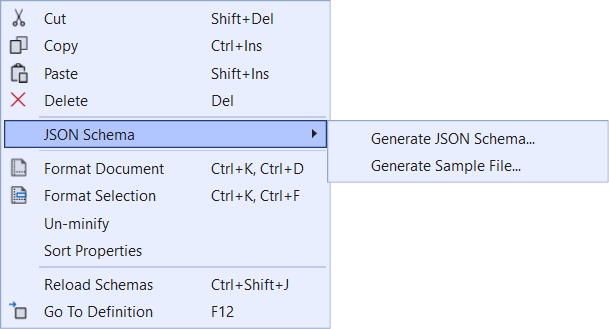
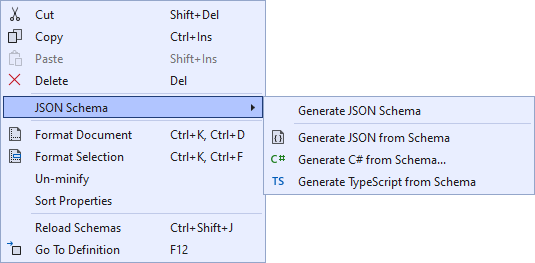
Added C# and TS code generation [release]

diff --git a/src/Commands/CsharpSettingsWindow.xaml b/src/Commands/CsharpSettingsWindow.xaml
@@ -1,0 +1,38 @@
+<platform:DialogWindow x:Class="JsonSchemaGenerator.Commands.CSharpSettingsWindow"
+             xmlns="http://schemas.microsoft.com/winfx/2006/xaml/presentation"
+             xmlns:x="http://schemas.microsoft.com/winfx/2006/xaml"
+             xmlns:mc="http://schemas.openxmlformats.org/markup-compatibility/2006" 
+             xmlns:d="http://schemas.microsoft.com/expression/blend/2008" 
+             xmlns:local="clr-namespace:JsonSchemaGenerator.Commands"
+             xmlns:platform="clr-namespace:Microsoft.VisualStudio.PlatformUI;assembly=Microsoft.VisualStudio.Shell.15.0"
+             xmlns:toolkit="clr-namespace:Community.VisualStudio.Toolkit;assembly=Community.VisualStudio.Toolkit"
+             mc:Ignorable="d" 
+             toolkit:Themes.UseVsTheme="True"
+             d:DesignHeight="200" d:DesignWidth="400" MinWidth="400" Title="C# Generation Settings" ShowInTaskbar="False" SizeToContent="WidthAndHeight"  WindowStartupLocation="CenterOwner">
+    <Grid Margin="10">
+        <Grid.RowDefinitions>
+            <RowDefinition Height="auto"/>
+            <RowDefinition Height="auto"/>
+            <RowDefinition Height="auto"/>
+            <RowDefinition Height="auto"/>
+        </Grid.RowDefinitions>
+        <Grid.ColumnDefinitions>
+            <ColumnDefinition Width="auto" />
+            <ColumnDefinition Width="*" />
+        </Grid.ColumnDefinitions>
+
+        <Label Grid.Column="0" Grid.Row="0" Content="Schema type" />
+        <ComboBox Grid.Column="1" Grid.Row="0" Name="cbSchemaType" SelectedIndex="0" Margin="0 0 0 10" Padding="3" />
+
+        <Label Grid.Column="0" Grid.Row="1" Content="Library" />
+        <ComboBox Grid.Column="1" Grid.Row="1" Name="cbLibrary" SelectedIndex="0" Margin="0 0 0 10" Padding="3" />
+
+        <Label Grid.Column="0" Grid.Row="2" Content="Style" />
+        <ComboBox Grid.Column="1" Grid.Row="2" Name="cbStyle" SelectedIndex="0" Margin="0 0 0 10" Padding="3" />
+
+        <StackPanel Grid.Column="2" Grid.Row="4" Orientation="Horizontal" HorizontalAlignment="Right">
+            <Button IsCancel="True" Content="Cancel" Padding="10" Margin="0 0 10 0"/>
+            <Button IsDefault="True" Content="OK" Padding="10" Click="OnOkClick" />
+        </StackPanel>
+    </Grid>
+</platform:DialogWindow>

diff --git a/src/Commands/GenerateTypescriptCommand.cs b/src/Commands/GenerateTypescriptCommand.cs
@@ -2,19 +2,19 @@
 using System.Windows;
 using Microsoft.Win32;
 using NJsonSchema;
+using NJsonSchema.CodeGeneration.TypeScript;
 
 namespace JsonSchemaGenerator
 {
-    [Command(PackageIds.GenerateSample)]
-    internal sealed class GenerateSampleCommand : BaseCommand<GenerateSampleCommand>
+    [Command(PackageIds.GenerateTypeScript)]
+    internal class GenerateTypescriptCommand : BaseCommand<GenerateTypescriptCommand>
     {
         protected override async Task ExecuteAsync(OleMenuCmdEventArgs e)
         {
             DocumentView docView = await VS.Documents.GetActiveDocumentViewAsync();
+            JsonSchema schema = await JsonSchema.FromFileAsync(docView.FilePath);
 
-            JsonSchema schema = await JsonSchema.FromFileAsync(docView.FilePath, Package.DisposalToken);
-
-            if (string.IsNullOrEmpty(schema.SchemaVersion))
+            if (string.IsNullOrEmpty(schema?.SchemaVersion))
             {
                 await VS.MessageBox.ShowErrorAsync("The selected JSON file is not a valid schema.");
                 return;
@@ -22,14 +22,16 @@ namespace JsonSchemaGenerator
 
             SaveFileDialog dialog = new()
             {
-                DefaultExt = ".json",
-                FileName = "sample.json",
+                DefaultExt = ".ts",
+                FileName = "sample.ts",
                 InitialDirectory = Path.GetDirectoryName(docView.FilePath)
             };
 
             if (dialog.ShowDialog(Application.Current.MainWindow) == true)
             {
-                File.WriteAllText(dialog.FileName, schema.ToSampleJson().ToString());
+                TypeScriptGenerator generator = new(this, new TypeScriptGeneratorSettings());
+
+                File.WriteAllText(dialog.FileName, generator.GenerateFile(schema, Path.GetFileNameWithoutExtension(dialog.FileName)));
 
                 if (await VS.Solutions.GetActiveProjectAsync() is Project project)
                 {
@@ -37,14 +39,6 @@ namespace JsonSchemaGenerator
                 }
 
                 await VS.Documents.OpenAsync(dialog.FileName);
-
-                // Apply schema to document
-                string relativeSchemaPath = PackageUtilities.MakeRelative(dialog.FileName, docView.FilePath);
-                IDataObject oldClipboard = Clipboard.GetDataObject();
-                Clipboard.SetText(relativeSchemaPath);
-                System.Windows.Forms.SendKeys.SendWait($"{{F4}}^v~");
-                Clipboard.SetDataObject(oldClipboard, true);
-
                 JsonSchemaGeneratorPackage.RatingPrompt.RegisterSuccessfulUsage();
             }
         }

diff --git a/src/Commands/GenerateCSharpCommand.cs b/src/Commands/GenerateCSharpCommand.cs
@@ -1,0 +1,55 @@
+using System.IO;
+using System.Windows;
+using JsonSchemaGenerator.Commands;
+using Microsoft.Win32;
+using NJsonSchema;
+using NJsonSchema.CodeGeneration;
+using NJsonSchema.CodeGeneration.CSharp;
+
+namespace JsonSchemaGenerator
+{
+    [Command(PackageIds.GenerateCSharp)]
+    internal class GenerateCSharpCommand : BaseCommand<GenerateCSharpCommand>
+    {
+        protected override async Task ExecuteAsync(OleMenuCmdEventArgs e)
+        {
+            DocumentView docView = await VS.Documents.GetActiveDocumentViewAsync();
+            JsonSchema schema = await JsonSchema.FromFileAsync(docView.FilePath);
+
+            if (string.IsNullOrEmpty(schema?.SchemaVersion))
+            {
+                await VS.MessageBox.ShowErrorAsync("The selected JSON file is not a valid schema.");
+                return;
+            }
+
+            CSharpSettingsWindow window = new();
+
+            if (await window.ShowDialogAsync(WindowStartupLocation.CenterOwner) != true)
+            {
+                return;
+            }
+
+            SaveFileDialog dialog = new()
+            {
+                DefaultExt = ".cs",
+                FileName = "sample.cs",
+                InitialDirectory = Path.GetDirectoryName(docView.FilePath)
+            };
+
+            if (dialog.ShowDialog(Application.Current.MainWindow) == true)
+            {
+                CSharpGenerator generator = new(this, window.Settings);
+                
+                File.WriteAllText(dialog.FileName, generator.GenerateFile(schema, Path.GetFileNameWithoutExtension(dialog.FileName)));
+
+                if (await VS.Solutions.GetActiveProjectAsync() is Project project)
+                {
+                    await project.AddExistingFilesAsync(dialog.FileName);
+                }
+
+                await VS.Documents.OpenAsync(dialog.FileName);
+                JsonSchemaGeneratorPackage.RatingPrompt.RegisterSuccessfulUsage();
+            }
+        }
+    }
+}

diff --git a/src/Commands/GenerateJsonCommand.cs b/src/Commands/GenerateJsonCommand.cs
@@ -1,0 +1,52 @@
+using System.IO;
+using System.Windows;
+using Microsoft.Win32;
+using NJsonSchema;
+
+namespace JsonSchemaGenerator
+{
+    [Command(PackageIds.GenerateJson)]
+    internal sealed class GenerateJsonCommand : BaseCommand<GenerateJsonCommand>
+    {
+        protected override async Task ExecuteAsync(OleMenuCmdEventArgs e)
+        {
+            DocumentView docView = await VS.Documents.GetActiveDocumentViewAsync();
+
+            JsonSchema schema = await JsonSchema.FromFileAsync(docView.FilePath, Package.DisposalToken);
+
+            if (string.IsNullOrEmpty(schema.SchemaVersion))
+            {
+                await VS.MessageBox.ShowErrorAsync("The selected JSON file is not a valid schema.");
+                return;
+            }
+
+            SaveFileDialog dialog = new()
+            {
+                DefaultExt = ".json",
+                FileName = "sample.json",
+                InitialDirectory = Path.GetDirectoryName(docView.FilePath)
+            };
+
+            if (dialog.ShowDialog(Application.Current.MainWindow) == true)
+            {
+                File.WriteAllText(dialog.FileName, schema.ToSampleJson().ToString());
+
+                if (await VS.Solutions.GetActiveProjectAsync() is Project project)
+                {
+                    await project.AddExistingFilesAsync(dialog.FileName);
+                }
+
+                await VS.Documents.OpenAsync(dialog.FileName);
+
+                // Apply schema to document
+                string relativeSchemaPath = PackageUtilities.MakeRelative(dialog.FileName, docView.FilePath);
+                IDataObject oldClipboard = Clipboard.GetDataObject();
+                Clipboard.SetText(relativeSchemaPath);
+                System.Windows.Forms.SendKeys.SendWait($"{{F4}}^v~");
+                Clipboard.SetDataObject(oldClipboard, true);
+
+                JsonSchemaGeneratorPackage.RatingPrompt.RegisterSuccessfulUsage();
+            }
+        }
+    }
+}

diff --git a/src/Commands/CsharpSettingsWindow.xaml.cs b/src/Commands/CsharpSettingsWindow.xaml.cs
@@ -1,0 +1,53 @@
+using System.Collections.Generic;
+using System.Windows;
+using Microsoft.VisualStudio.PlatformUI;
+using NJsonSchema;
+using NJsonSchema.CodeGeneration.CSharp;
+
+namespace JsonSchemaGenerator.Commands
+{
+    /// <summary>
+    /// Interaction logic for CsharpSettingsWindow.xaml
+    /// </summary>
+    public partial class CSharpSettingsWindow : DialogWindow
+    {
+        public CSharpSettingsWindow()
+        {
+            InitializeComponent();
+
+            cbSchemaType.ItemsSource = EnumToDictionary<SchemaType>().Keys;
+            cbLibrary.ItemsSource = EnumToDictionary<CSharpJsonLibrary>().Keys;
+            cbStyle.ItemsSource = EnumToDictionary<CSharpClassStyle>().Keys;
+        }
+
+        public CSharpGeneratorSettings Settings { get; } = new();
+
+        private void OnOkClick(object sender, RoutedEventArgs e)
+        {
+            Settings.GenerateDefaultValues = false;
+            Settings.SchemaType = (SchemaType)cbSchemaType.SelectedValue;
+            Settings.JsonLibrary = (CSharpJsonLibrary)cbLibrary.SelectedValue;
+            Settings.ClassStyle = (CSharpClassStyle)cbStyle.SelectedValue;
+            DialogResult = true;
+            Close();
+        }
+
+        public static Dictionary<T, string> EnumToDictionary<T>()
+        where T : struct
+        {
+            if (typeof(T).BaseType != typeof(Enum))
+            {
+                throw new ArgumentException("T must be of type System.Enum");
+            }
+
+            Dictionary<T, string> enumDL = new();
+            
+            foreach (T val in Enum.GetValues(typeof(T)))
+            {
+                enumDL.Add(val, val.ToString());
+            }
+
+            return enumDL;
+        }
+    }
+}

diff --git a/src/VSCommandTable.cs b/src/VSCommandTable.cs
@@ -26,10 +26,13 @@ namespace JsonSchemaGenerator
     internal sealed partial class PackageIds
     {
         public const int MyMenuGroup = 0x0001;
-        public const int FlyoutMenuGroup = 0x0002;
-        public const int FlyoutMenu = 0x0003;
+        public const int SchemaMenuGroup = 0x0002;
+        public const int SampleMenuGroup = 0x0003;
+        public const int FlyoutMenu = 0x0004;
         public const int GenerateSchema = 0x0100;
-        public const int GenerateSample = 0x0110;
+        public const int GenerateJson = 0x0110;
+        public const int GenerateCSharp = 0x0120;
+        public const int GenerateTypeScript = 0x0130;
         public const int jsonContextMenu = 0x0001;
     }
 }

diff --git a/src/source.extension.cs b/src/source.extension.cs
@@ -12,7 +12,7 @@ namespace JsonSchemaGenerator
         public const string Name = "JSON Schema Tools";
         public const string Description = @"Allows you to easily generate a schema file from a JSON file and generate a JSON file with dummy data based on a schema file.";
         public const string Language = "en-US";
-        public const string Version = "1.0.503";
+        public const string Version = "1.0.505";
         public const string Author = "Mads Kristensen";
         public const string Tags = "json, schema";
     }

diff --git a/README.md b/README.md
@@ -20,12 +20,19 @@ Right-click your JSON file in the editor window and select **Generate JSON Schem
 
 You'll be asked where to place the generated file before it's being generated. Once created, the new schema will be applied to the document automtically.
 
-## Generate Sample File
-If you already have a local JSON schema file, you can generate a JSON file with dummy data adhearing to the schema. 
+## Generate files from a JSON Schema
+If you already have a local JSON schema file, you can generate files in different formats based on it. 
 
-Right-click your JSON schema file in the editor window and select **Generate Sample File...**. You'll now be prompted to enter a file name and the file is generated.
+### JSON
+To generate a JSON file with dummy data, select the command **Generate JSON from Schema**. The new sample JSON file will automatically get the schema applied to it.
 
-The new sample JSON file will automatically get the schema applied to it.
+### C#
+To generate a C# class file, select the command **Generate C# from Schema...**. This will open a dialog for you to select various settings.
+
+![c# settings](art/csharp-settings.png)
+
+### TypeScript
+To generate TypeScript types based on the JSON Schema, select the command **Generate TypeScript from Schema**.
 
 *Powered by [NJsonSchema for .NET](https://github.com/RicoSuter/NJsonSchema) written by [Rico Suter](https://github.com/RicoSuter)*
 
